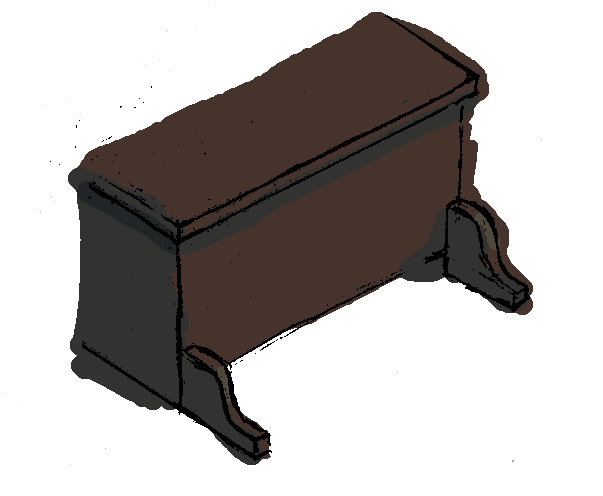
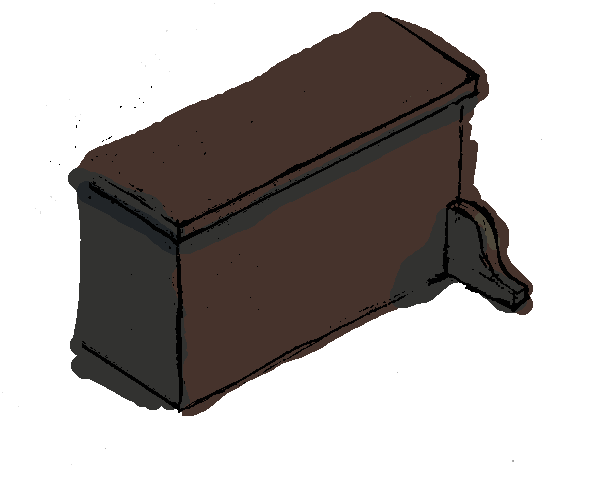
oh god it's magic number o'clock

Changed region(s): [[0.2985, 0.4839, 0.7463, 0.9375]]

diff --git a/src/managers/PianoManager.js b/src/managers/PianoManager.js
@@ -30,13 +30,18 @@ export class PianoManager {
 			}
 		}
 
+		this.pianoSprite = scene.add.sprite(280, 230, "piano_image").setScale(2.0);
+		this.pianoForegroundSprite = scene.add.sprite(280, 200, "piano-foreground_image").setScale(2.0);
+
+		this.pianoForegroundSprite.setDepth(999);
+
         this.createKeys();
     }
     
     createKeys() {
 		for(let keyObject of this.tilemapKeys) {
-			const x = keyObject.y * 1.25 - 300.0;
-			const y = -x * Math.atan(Math.PI / 6.0) + 500;
+			const x = keyObject.y * 2.25 - 730.0;
+			const y = -x * Math.atan(Math.PI / 6.0) + 600;
 
 			console.log(`${x}, ${y}`);
 
@@ -53,9 +58,9 @@ export class PianoManager {
 				new WhiteKey(this.scene, x, y, keyObject.detune) :
 				new BlackKey(this.scene, x, y, keyObject.detune);
 
-			console.log(keyObject.properties);
-
-			newKey.setScale(3.0);
+			newKey.setScale(6.0);
+			newKey.setDepth((Math.floor((730 - x) / 2.25) - 48) / 4 + 101);
+			console.log(newKey.depth);
 
 			newKey.on("note-pressed", this.playNote, this);
 			newKey.on("note-released", (noteName) => {});
@@ -74,7 +79,8 @@ export class PianoManager {
 	}
 
     update(dinoInstance) {
-		let newHoveredKeyIndex = PianoConfig.keyCount - Math.floor((dinoInstance.x - PianoConfig.pianoX) / (PianoConfig.pianoWidth * PianoConfig.pianoScale / (PianoConfig.keyCount - 1)));
+		let newHoveredKeyIndex = Math.floor(-4.0 + (this.keys.length + 3.0) * (1.0 - (dinoInstance.x - 155.0) / 595.0));
+		console.log(newHoveredKeyIndex);
 
 		if(newHoveredKeyIndex != this.hoveredKeyIndex) {
 			dinoInstance.updateHover(newHoveredKeyIndex);

diff --git a/src/gameobjects/DinoHead.js b/src/gameobjects/DinoHead.js
@@ -24,10 +24,10 @@ export class DinoHead extends Phaser.GameObjects.Container {
     }
 
     handlePointerMoved(pointer) {
-		const lowestY = PianoConfig.pianoY + (PianoConfig.keyHeight / 2.0) - (this.x * Math.atan(Math.PI / 6.0));
+		const lowestY = -this.x * Math.atan(Math.PI / 6.0) + 600;
 
 		this.setPosition(
-			Phaser.Math.Clamp(this.x + pointer.movementX, PianoConfig.leftmostDinoX, PianoConfig.rightmostDinoX),
+			Phaser.Math.Clamp(this.x + pointer.movementX, 155.0, 650.0),
 			Phaser.Math.Clamp(this.y + pointer.movementY, PianoConfig.highestDinoY, lowestY)
 		);
     }
@@ -38,7 +38,7 @@ export class DinoHead extends Phaser.GameObjects.Container {
 	}
 
 	updateHover(hoverIndex) {
-		const depth = 104 - PianoConfig.keyCount + hoverIndex * 2;
+		const depth = 104 + hoverIndex * 2;
 		this.setDepth(depth);
 	}
 }